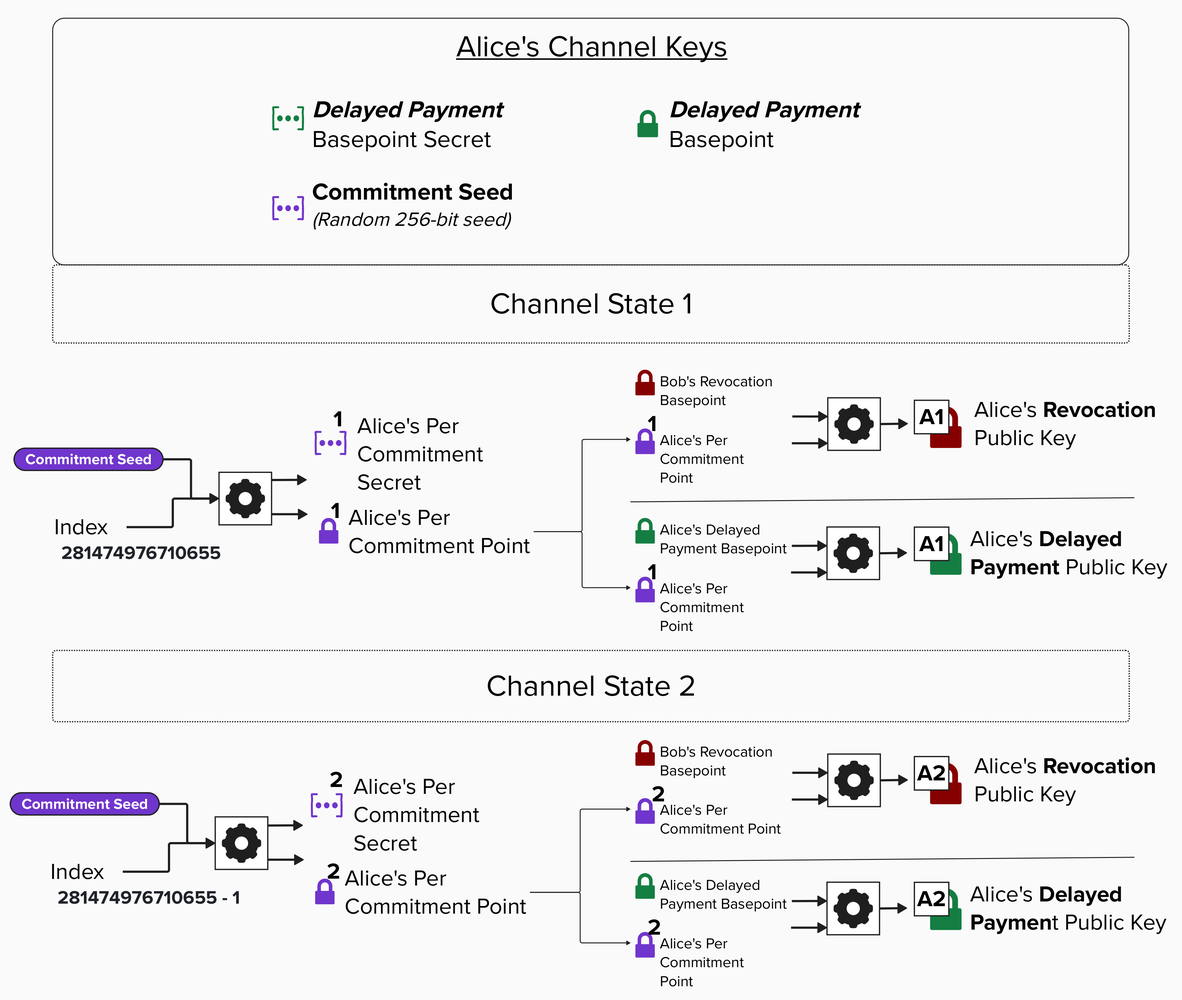
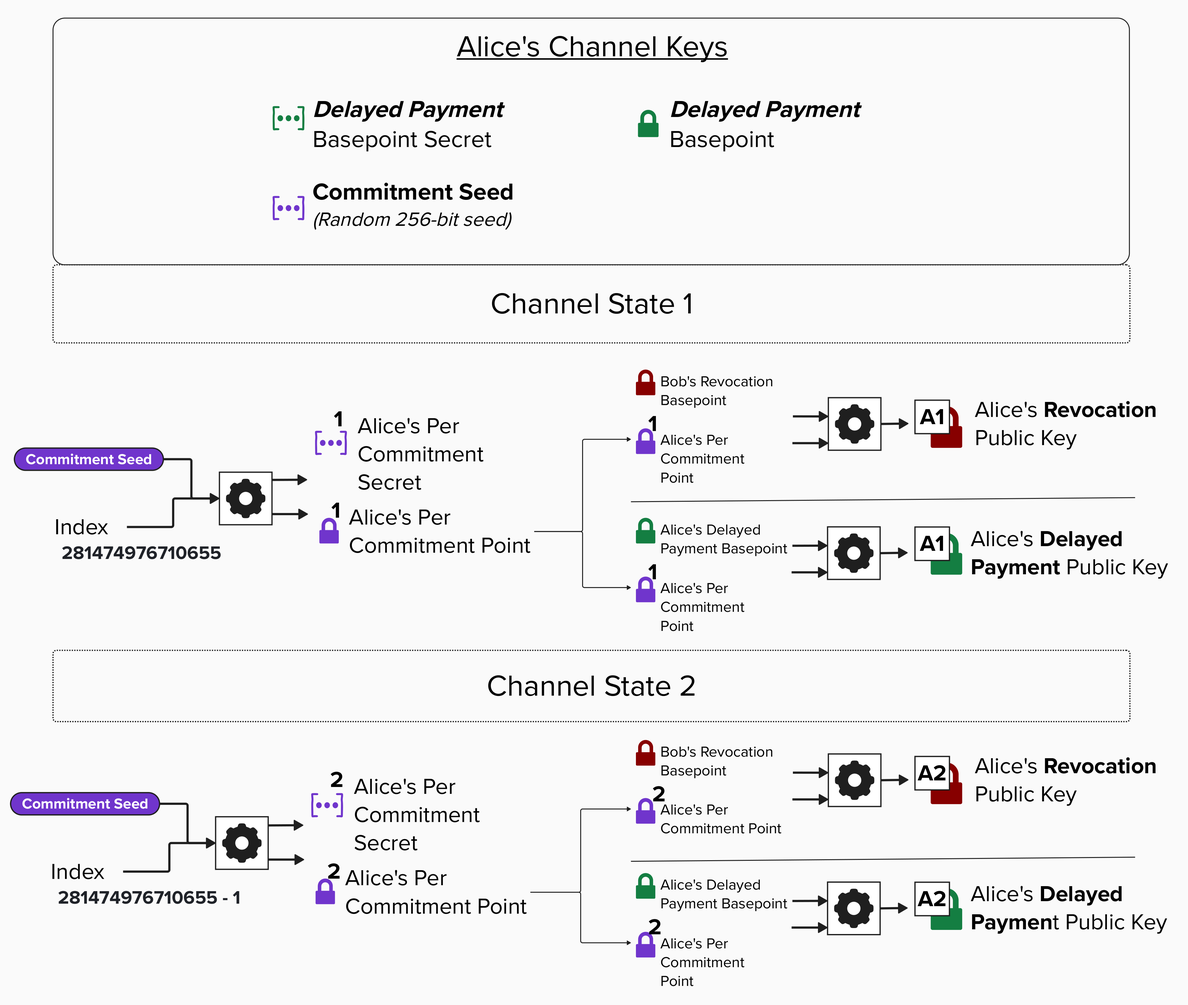
update per commitment point content

diff --git a/.tutorial/xx10-per-commitment-point.md b/.tutorial/xx10-per-commitment-point.md
@@ -4,9 +4,9 @@
 
 Alright, things are heating up fast. Hold on, we still have a lot to cover!
 
-In the last exercise, we learned that Alice and Bob will each generate a series of **Per-Commitiment Secrets** (Private Keys) and **Per-Commitment Points** (Public Keys) for each channel state. As we saw, these points are then used to create *unique* **Revocation Public Keys** for each channel state. Below is an image depicting this process from Alice's point of view. All she needs is a **commitment seed**, which she created when she opened the channel with Bob, and the **channel state index**. NOTE: in the below picture, the colors for Alice's keys have been changed back to match the colors in the original Channel Keys legend.
+In the last exercise, we learned that Alice and Bob will each generate a series of **Per-Commitment Secrets** (private keys) and **Per-Commitment Points** (public keys) for each channel state. As we saw, these points are then used to create *unique* **Revocation Public Keys** for each channel state. Below is an image depicting this process from Alice's point of view. All she needs is a **Commitment Seed**, which she created when she opened the channel with Bob, and the **channel state index**.
 
-SPOILER ALERT: The **Per-Commitment Points** is actually used for more than just the **Revocation Public Keys**, but more on that soon!  
+> **NOTE:** In the picture below, the colors for Alice's keys have been changed back to match the colors from when we first created all of our Channel Keys.
 
 <p align="center" style="width: 50%; max-width: 300px;">
   <img src="./tutorial_images/alice_per_commitment_points.png" alt="alice_per_commitment_points" width="50%" height="auto">
@@ -14,28 +14,32 @@ SPOILER ALERT: The **Per-Commitment Points** is actually used for more than just
 
 So, at this point, the outstanding question on *everyone's* mind is: **"How do we create the Per-Commitment Secret from the Commitment Seed?!"** In other words, what does the gear icon actually mean?
 
-We'll, let's dig into that now.
+Well, let's dig into that now.
 
-## Deriving A Per Commitment Secret
+## Deriving A Per-Commitment Secret
+
 BOLT 3, in the [Per-commitment Secret Requirements](https://github.com/lightning/bolts/blob/master/03-transactions.md#per-commitment-secret-requirements) section, provides a specific algorithm for generating the secret for any given channel state. The algorithm, listed below, has the following two parameters:
-- **seed**: This is the commitment seed for the channel.
-- **I**: This is the index. Per BOLT 3, the index starts at 281474976710655 for the first channel state, and it's decremented by 1 for each new state.
 
-#### todo!: explain how it works
+- **seed**: The Commitment Seed for the channel
+- **I**: The index. Per BOLT 3, the index starts at 281474976710655 for the first channel state, and is decremented by 1 for each new state
+
+#### todo- explain how it works!
 
 ```
 generate_from_seed(seed, I):
-P = seed
-for B in 47 down to 0:
-    if B set in I:
-        flip(B) in P
-        P = SHA256(P)
-return P
+    P = seed
+    for B in 47 down to 0:
+        if B set in I:
+            flip(B) in P
+            P = SHA256(P)
+    return P
 ```
 
 ### ⚡ Build Per-Commitment Secret
 
-Now that we've reviewed how the formula works, let's implement it ourselves! To do this, head back over to `src/exercises/keys/channel_keys_manager.rs`. Since this is where we implemented our `ChannelKeysManager`, which holds our channel keys (ex: commitment seed), it will be useful to implement the ability to generate a per-commitment secret here!
+Now that we've reviewed how the formula works, let's implement it ourselves! To do this, head back over to `src/exercises/keys/channel_keys_manager.rs`. Since this is where we implemented our `ChannelKeysManager`, which holds our channel keys (ex: **Commitment Seed**), it will be useful to implement the ability to generate a per-commitment secret here!
+
+To successfully complete this function, you'll need to produce a **Per-Commitment Secret** (returned as `[u8; 32]`) that for a given `commitment_number`. The result must be in accordance with the specifications outlined in BOLT 3.
 
 ```rust
 impl ChannelKeyManager {
@@ -54,10 +58,18 @@ pub fn build_commitment_secret(&self, commitment_number: u64) -> [u8; 32] {
 ```
 
 <details>
+  <summary>💡 Hint 💡</summary>
+
+#### todo - add high-level explanation "Hint" for how to complete
+
+</details>
+
+<details>
 <summary>Step 1: Initialize the Result with the Commitment Seed</summary>
 
-We start by creating a mutable variable that will hold our result. We initialize it with a copy of our commitment_seed - this seed is the starting point for generating all commitment secrets.
-The mut keyword makes this variable mutable, which we'll need because we're going to modify it through the hashing process.
+We'll start by creating a mutable variable that will hold our result. Let's initialize this variable as a copy of our `commitment_seed`, since the **Commitment Seed** is the starting point for generating all commitment secrets.
+
+In Rust, we use the `mut` keyword to specify that a variable is mutable.
 
 ```rust
 let mut res: [u8; 32] = self.commitment_seed.clone();
@@ -71,6 +83,7 @@ let mut res: [u8; 32] = self.commitment_seed.clone();
   <summary>Step 2: Loop Through 48 Bits and Check Each One</summary>
   
 The BOLT 3 algorithm examines 48 bits of the `commitment_number` (giving us 2^48 possible commitments). For each iteration, we calculate the bit position starting from bit 47 down to 0, then check if that bit is set in the commitment number using bitwise operations.
+
 The expression `commitment_number & (1 << bitpos)` checks if the bit at position `bitpos` is set to 1.
 
 ```rust
@@ -108,9 +121,9 @@ res
 
 ### ⚡ Build Per-Commitment Point
 
-Now that we have the ability to generate a Per-Commitment Secret, let's build the functionality to turn that into a Per-Commitment Point. To do this, we'll implement the function `derive_per_commitment_point`, on our `ChannelKeysManager`.
+Now that we have the ability to generate a **Per-Commitment Secret**, let's build the functionality to turn that into a **Per-Commitment Point**. To do this, we'll implement the `derive_per_commitment_point` function on our `ChannelKeyManager`.
 
-This function will take one input: the `commitment_number`. We'll pass the commitment number into the `build_commitment_secret` function we created in the last exercise, which will return a `SecretKey` type. Just was we've done in previous exercises, we'll convert the secret key to a public key and return it!
+This function takes one input: the `commitment_number`. We'll pass the commitment number into the `build_commitment_secret` function we created in the last exercise, which returns a 32-byte array. We'll then convert those bytes into a `SecretKey`. Finally, just as we've done in previous exercises, we'll convert the secret key to a public key and return it!
 
 ```rust
 impl ChannelKeyManager {
@@ -121,6 +134,24 @@ impl ChannelKeyManager {
     }
 }
 ```
+<details>
+  <summary>💡 Hint 💡</summary>
+
+This exercise brings together concepts we've covered earlier in this course.
+
+To successfully complete this function, you'll want to:
+
+1. Generate the per-commitment secret using `build_commitment_secret()`, which we implemented in the last exercise. It's available via `self.` because we implemented it on `ChannelKeyManager`, the same struct this function is on.
+
+2. Convert the 32-byte array to a `SecretKey`
+   - Use `SecretKey::from_slice(&secret).expect("Valid secret")`
+
+3. Derive the public key from the secret key
+   - Use `PublicKey::from_secret_key(&self.secp_ctx, &secret_key)`
+
+That's it!
+
+</details>
 
 <details>
   <summary>Step 1: Generate the Commitment Secret</summary>
@@ -149,7 +180,7 @@ let secret_key = SecretKey::from_slice(&secret).expect("Valid secret");
 <details>
   <summary>Step 3: Derive and Return the Public Key</summary>
     
-Finally, we derive the public key from our secret key using elliptic curve multiplication. This public key is our **Per-Commitment Point** - it's safe to share with our channel partner and will be used in key derivation for this specific commitment transaction.
+Finally, we derive the public key from our secret key using elliptic curve multiplication. This public key is our **Per-Commitment Point**!
 
 ```rust
 PublicKey::from_secret_key(&self.secp_ctx, &secret_key)
@@ -158,48 +189,56 @@ PublicKey::from_secret_key(&self.secp_ctx, &secret_key)
 
 ## Lightning Key Derivation
 
-At this point, we should have a good intuition for how we can derive new **Revocation Public Keys** for each commitment state. However, the fun doesn't stop just yet! In Lightning, we actually derive new pubic keys for most of the keys used in each commitment transaction.
+At this point, we should have a good intuition for how we can derive new **Revocation Public Keys** for each commitment state. However, the fun doesn't stop just yet! In Lightning, we actually derive new public keys for most of the keys used in each commitment transaction.
 
-For example, remember how we introduced a **Delayed Payment Public Key**, which is used in the delayed spending path (after the `to_self_delay` relative delay)? We'll, somewhat-similarly to the Revocation Public Key, this public key is also derived by combining it's basepoint (**Delayed Payment Basepoint**) with a given state's **Per-Commitment Point**.
+For example, remember how we introduced a **Delayed Payment Public Key**, which is used in the delayed spending path (after the `to_self_delay` relative timelock)? Well, somewhat similarly to the Revocation Public Key, this public key is also derived by combining its basepoint (**Delayed Payment Basepoint**) with a given state's **Per-Commitment Point**.
 
-Take a look at the visual below. In it, you can see that we use each state's **Per-Commitment Point** and combine it with a **Basepoint** such that it produces a new public key, which we can place in the actual locking script.
+Take a look at the visual below. You can see that we use each state's **Per-Commitment Point** and combine it with a **Basepoint** to produce a new public key, which we place in the actual locking script.
 
 <p align="center" style="width: 50%; max-width: 300px;">
   <img src="./tutorial_images/alice_delayed_payment_derivation.png" alt="alice_delayed_payment_derivation" width="100%" height="auto">
 </p>
 
-However, the crucial difference here is that the **Delayed Payment Public Key** is not derived the same way that the **Revocation Public Key** is. Instead, it uses the *local party's* **Basepoint**. For example, Alice will use her **Delayed Payment Basepoint** and combine it with *her* **Per-Commitment Point**. She'll use the below equation to calculate the **Delayed Payment Public Key** , which she will put in *her* delayed spending path. The reason she *won't* use Bob's Basepoint is because this path is only ever meant to be spent by Alice, so it's important that she is able to derive the private key to spend from this path at any time.
-
+However, the crucial difference here is that the **Delayed Payment Public Key** is ***not*** derived the same way as the **Revocation Public Key**. Instead, it uses the *local party's* **Delayed Payment Basepoint**. For example, Alice will use her **Delayed Payment Basepoint** and combine it with *her* **Per-Commitment Point**. She'll use the equation below to calculate the **Delayed Payment Public Key**, which she will put in *her* delayed spending path. She *won't* use Bob's Basepoint because this path is only ever meant to be spent by Alice, so it's important that she can derive the private key to spend from this path at any time.
 ```
 pubkey = basepoint + SHA256(per_commitment_point || basepoint) * G
 ```
 
 ## Delayed Public Keys in Locking Scripts
-Now that we know how we'll derive the **Delayed Payment Public Key** for a given transaction, let's review the overall flow one more time to make sure everything makes sense! Then, we'll code it up!
 
-In the below diagram, you'll see the overall **Channel Establishment** message flow that we reviewed earlier. In it, you can see all of the **Basepoints** that Alice and Bob send to each other in the `open_channel` and `accept_channel` messages. If you've been paying extra close attention, you may notice that we've now included the **First Per-Commitment Points** in the `open_channel` and `accept_channel` messages! Per the [BOLT 2 specification](https://github.com/lightning/bolts/blob/master/02-peer-protocol.md#the-open_channel-message) the **First Per-Commitment Points** are actually included in these messages, but we left them out earlier because we had not yet introduced them!
+Now that we know how to derive the **Delayed Payment Public Key** for a given transaction, let's review the overall flow one more time to make sure everything makes sense! Then, we'll code it up!
 
-At the bottom of the diagram, you can see how, for Alice's version of the commitment transaction, we calculate *her* **Delayed Payment Public Key** by plugging *her* **Delayed Payment Basepoint** and *her* **First Per-Commitment Point** into the formula provided in the BOLT 3 specification. On the other hand, we use *Bob's* **Delayed Payment Basepoint** and *Bob's* **First Per-Commitment Point** when calculating *his* **Delayed Payment Public Key**.
+The diagram below shows the **Channel Establishment** message flow that we reviewed earlier. You can see all of the **Basepoints** that Alice and Bob send to each other in the `open_channel` and `accept_channel` messages. If you've been paying close attention, you may notice that we've now included the **First Per-Commitment Points** in the `open_channel` and `accept_channel` messages! Per the [BOLT 2 specification](https://github.com/lightning/bolts/blob/master/02-peer-protocol.md#the-open_channel-message), the **First Per-Commitment Points** are actually included in these messages, but we left them out earlier because we hadn't yet introduced them!
+
+At the bottom of the diagram, you can see how we calculate Alice's **Delayed Payment Public Key** for her version of the commitment transaction by plugging *her* **Delayed Payment Basepoint** and *her* **First Per-Commitment Point** into the formula provided in the BOLT 3 specification. On the other hand, we use *Bob's* **Delayed Payment Basepoint** and *Bob's* **First Per-Commitment Point** when calculating *his* **Delayed Payment Public Key**.
 
 <p align="center" style="width: 50%; max-width: 300px;">
   <img src="./tutorial_images/delayed_payment_derivation.png" alt="delayed_payment_derivation" width="100%" height="auto">
 </p>
 
-#### Question: Why does Alice need Bob's Delayed Payment Basepoint? It looks like she only uses her Delayed Payment Basepoint to create the Delayed Payment Public Key that goes into her to_local witness script...
+#### Question: Why does Alice need Bob's Delayed Payment Basepoint? It looks like she only uses her Delayed Payment Basepoint to create the Delayed Payment Public Key that goes into her `to_local` witness script...
+
 <details>
   <summary>Answer</summary>
 
-Remember, each new transaction that Alice and Bob create is spending from the 2-of-2 funding output! Since Alice and Bob each have their own version of the commitment transactions, they will each require unique signatures from eachother to ensure their commitment transactions are valid.
+Remember, each new transaction that Alice and Bob create spends from the 2-of-2 funding output! Since Alice and Bob each have their own version of the commitment transaction, they each require a unique signature from the other to ensure their commitment transactions are valid.
 
-Therefore, Alice will need to re-create *Bob's* version of the commitment transaction locally so that she can generate a signature for it and send that signature to Bob! Bob will do the same.
+Therefore, Alice needs to recreate *Bob's* version of the commitment transaction locally so she can generate a signature for it and send that signature to Bob! Bob does the same for Alice.
 
-To ensure that Alice and Bob can create each other's commitment transaction's locally, they will share their Basepoints at when opening their channel.
+To ensure that Alice and Bob can create each other's commitment transactions locally, they share their Basepoints when opening their channel.
 
 </details>
 
 ### ⚡ Derive Public Keys
 
-Alright, let's get our hands dirty by implementing `derive_public_key`, a function that takes a **Basepoint** and **Per Commitment Point** and returns a public key for a specific commitment transaction. In case you're wondering, the function definition doesn't specify which basepoint for a few reasons. First, we can use this function to derive a **Delayed Payment Public Key** for our counterparty, which uses *their** **Delayed Payment Basepoint** and their **Per-Commitment Point**. Additionally, as we'll see later, there are other public keys that we'll derive using different **Basepoints**!
+Alright, let's get our hands dirty by implementing `derive_public_key`, a function that takes a **Basepoint** and **Per-Commitment Point** and returns a public key for a specific commitment transaction.
+
+In case you're wondering, the function definition doesn't specify which basepoint for a few reasons. First, we can use this function to derive a **Delayed Payment Public Key** for our counterparty, which uses *their* **Delayed Payment Basepoint** and their **Per-Commitment Point**. Additionally, as we'll see later, there are other public keys that we'll derive using different **Basepoints**!
+
+To successfuly complete this exericse, you'll need to implement the formula as defined in [BOLT 3](https://github.com/lightning/bolts/blob/master/03-transactions.md#localpubkey-local_htlcpubkey-remote_htlcpubkey-local_delayedpubkey-and-remote_delayedpubkey-derivation):
+```
+pubkey = basepoint + SHA256(per_commitment_point || basepoint) * G
+```
 
 ```rust
 pub fn derive_public_key(
@@ -224,8 +263,27 @@ pub fn derive_public_key(
 ```
 
 <details>
+  <summary>💡 Hint 💡</summary>
+
+This exercise is pretty similar to deriving the Revocation Keys. Feel free to look back at that exercise if you get stuck!
+
+Here's the general approach:
+
+1. Hash the **Per-Commitment Point** and **Basepoint** together (note the order!).
+   - Just like you did in the revocation exercise, use `Sha256::engine()`, `.input()`, and `Sha256::from_engine()`
+
+2. Convert the hash to a public key.
+   - Treat the hash as a secret key and derive a public key from it
+
+3. Add the basepoint to this hash-derived public key.
+   - Use `.combine()` to add the two points together
+
+</details>
+
+<details>
   <summary>Step 1: Create a SHA256 Hashing Engine</summary>
-We start by creating a SHA256 hasher that we'll use to hash our key material together. The `engine()` method gives us a hasher we can feed data into incrementally.
+
+Just like we did previously, let's start by creating a SHA256 hash engine. 
 
 ```rust
 let mut engine = Sha256::engine();
@@ -235,9 +293,9 @@ let mut engine = Sha256::engine();
 <details>
 <summary>Step 2: Hash the Per-Commitment Point and Basepoint</summary>
 
-Next, we hash the concatenation of our per-commitment point and basepoint. The order matters here - per-commitment point first, then basepoint, as specified in BOLT 3!
+Next, let's hash the concatenation of our **Per-Commitment Point** and **Basepoint**. Remember, order matters!
 
-We serialize each public key to bytes using `.serialize()` which gives us the compressed 33-byte representation, then feed those bytes into our hasher with `.input()`.
+Also, make to sure serialize each public key using `.serialize()`, which gives us the compressed 33-byte representation, then feed those bytes into our hash engine with `.input()`.
 
 ```rust
 engine.input(&per_commitment_point.serialize());
@@ -248,9 +306,7 @@ engine.input(&basepoint.serialize());
 <details>
 <summary>Step 3: Finalize the Hash and Convert to Public Key</summary>
 
-Now we finalize the hash and convert the resulting 32 bytes into a public key. This might seem odd - we're treating a hash output as a secret key and deriving its public key - but this is exactly what the BOLT 3 specification calls for!
-  
-The hash output is guaranteed to be a valid secret key (the only way it wouldn't be is if SHA-256 itself is broken). We multiply this secret by the generator point G to get our "tweak" public key.
+Now, let's finalize the hash and convert the resulting 32 bytes into a public key. To be clear, we're treating a hash output as a secret key, which we then use to derive its public key.
 
 ```rust
 let res = Sha256::from_engine(engine);
@@ -265,9 +321,7 @@ let hashkey = PublicKey::from_secret_key(
 <details>
   <summary>Step 4: Combine the Basepoint with the Hash Key</summary>
   
-Finally, we add our basepoint to the hash key using elliptic curve point addition. The `.combine()` method performs this addition on the secp256k1 curve.
-
-This operation can only fail if the tweak is the exact inverse of the basepoint (which would result in the point at infinity). But since our tweak includes a hash of the basepoint itself, this is cryptographically impossible!
+Finally, let's add our basepoint to the hash key using elliptic curve point addition. The `.combine()` method performs this addition on the secp256k1 curve.
 
 ```rust
 basepoint.combine(&hashkey).expect("Addition only fails if the tweak is the inverse of the key. This is not possible when the tweak contains the hash of the key.")
@@ -275,60 +329,84 @@ basepoint.combine(&hashkey).expect("Addition only fails if the tweak is the inve
 </details>
 
 ## Deriving Private Keys
-Okay, so we have our public keys ready to go! But, how do we generate the private keys so that we can spend from any given commitment state? For example, the diagram below depicts a situation where Alice needs to claim her funds from the first commitment state, which we've been calling the "Refund" transaction. To do this, she needs to spend from the **Delayed Payment Public Key**, which is unique to this commitment state.
 
-To be clear, we can imagine that Alice is locking her funds to another public key for which she knows the private key. It's shown in a black color below to indicate that it's not a public key related to our Lightning wallet. It can be any other public key that Alice controls.
+Okay, so we have our public keys ready to go! But how do we generate the private keys so that we can spend from any given commitment state? For example, the diagram below depicts a situation where Alice needs to claim her funds from the first commitment state, which we've been calling the "Refund" transaction. To do this, she needs to spend from the **Delayed Payment Public Key**, which is unique to this commitment state.
 
 <p align="center" style="width: 50%; max-width: 300px;">
   <img src="./tutorial_images/alice_refund_claim.png" alt="alice_refund_claim" width="100%" height="auto">
 </p>
 
-If you recall from earlier when we created our **Delayed Payment Public Key**, we combined the **Delayed Payment Basepoint** with the **Per-Commitment Point**. Therefore, to generate the private key to spend from the **Delayed Payment Public Key**, we'll have to combine the **Delayed Payment Secret** with the same tweak we added to our **Delayed Payment Secret** to create the **Delayed Payment Public Key**. BOLT 3 provides us with the equation to do just this! You can see it below.
-
+We created the **Delayed Payment Public Key** by combining the **Delayed Payment Basepoint** with a **Per-Commitment Point**. Therefore, to generate the corresponding private key, we need to apply the same tweak to the **Delayed Payment Basepoint Secret**. BOLT 3 provides us with the equation to do just this:
 ```
 privkey = basepoint_secret + SHA256(per_commitment_point || basepoint)
 ```
 
-#### Question: Take a look at the newly added sequence field in the "input" section of Alice's refund claim transaction. What is to_self_delay here?
+#### Question: Take a look at the newly added sequence field in the "input" section of Alice's refund claim transaction. What is `to_self_delay` here?
+
 <details>
   <summary>Answer</summary>
 
-Recall how we added a delay so that Alice had to wait `to_self_delay` (ex: 2016 blocks or ~2 weeks) before she could claim her funds from this output, if it's mined? This was to give Bob time to claim these funds first, if Alice was cheating by broadcasting this transaction *after* they had already agreed to move to a new channel state.
+Recall how we added a delay so that Alice had to wait `to_self_delay` (e.g., 2016 blocks or ~2 weeks) before she could claim her funds from this output, if it's mined? This was to give Bob time to claim these funds first if Alice was cheating by broadcasting this transaction *after* they had already agreed to move to a new channel state.
 
-We'll, in this example, we're assuming that Alice is playing nice and is fairly claiming these funds back. To do this, she will have to set the `sequence` field in the input, which specifies the output she's spending, to the `to_self_delay` value that was embedded in the script. If you're intersted in reading the details, you can read the OP_CHECKSEQUENCEVERIFY BIP [here](https://github.com/bitcoin/bips/blob/master/bip-0112.mediawiki). 
+Well, in this example, we're assuming that Alice is playing nice and is fairly claiming these funds back. To do this, she will have to set the `sequence` field in the input, which specifies the output she's spending, to the `to_self_delay` value that was embedded in the script. If you're interested in reading the details, you can read the OP_CHECKSEQUENCEVERIFY BIP [here](https://github.com/bitcoin/bips/blob/master/bip-0112.mediawiki).
 
-If you're busy (or are intimidated by the BIP - they can be scary), here is the TLDR: The `sequence` field specifies a relative timelock on the input - meaning that a transaction cannot be mined until that amount of blocks (or time) has passed **since the input was mined**. OP_CHECKSEQUENCEVERIFY, when being evaluated on the stack, will check if the provided delay (`to_self_delay`, in our case) is greater than or equal to the value in the `sequence` field. By doing this, we can restrict the delayed spending path such that Alice cannot spend from that path until the relative timelock has experied. Cool, eh?
+If you're busy (or intimidated by the BIP - they can be scary), here is the TLDR: The `sequence` field specifies a relative timelock on the input, meaning that a transaction cannot be mined until that number of blocks (or amount of time) has passed **since the output being spent was confirmed**. `OP_CHECKSEQUENCEVERIFY`, when evaluated on the stack, checks if the provided delay (`to_self_delay`, in our case) is less than or equal to the value in the `sequence` field. By doing this, we can restrict the delayed spending path such that Alice cannot spend from it until the relative timelock has expired. Neat, eh?
 
 </details>
 
 ### ⚡ Derive Private Keys
 
-For this exercise, we'll implement `derive_private_key`, a function that takes a `base_secret` (like our `delayed_payment_basepoint_secret`), a `per_commitment_point`, and returns the derived private key we can use to sign for that specific commitment.
+For this exercise, we'll implement `derive_private_key`, a function that takes a `basepoint_secret` (like our `delayed_payment_basepoint_secret`), a `per_commitment_point`, and returns the derived private key we can use to sign for that specific commitment.
+
+To successfuly complete this exericse, you'll need to implement the formula as defined in [BOLT 3](https://github.com/lightning/bolts/blob/master/03-transactions.md#localpubkey-local_htlcpubkey-remote_htlcpubkey-local_delayedpubkey-and-remote_delayedpubkey-derivation):
+```
+pubkey = basepoint + SHA256(per_commitment_point || basepoint) * G
+```
 
 ```rust
 pub fn derive_private_key(
-    base_secret: &SecretKey,
+    basepoint_secret: &SecretKey,
     per_commitment_point: &PublicKey,
     secp_ctx: &Secp256k1<All>,
 ) -> SecretKey {
-    // privkey = base_secret + SHA256(per_commitment_point || basepoint)
-    let basepoint = PublicKey::from_secret_key(secp_ctx, base_secret);
+    // privkey = basepoint_secret + SHA256(per_commitment_point || basepoint)
+    let basepoint = PublicKey::from_secret_key(secp_ctx, basepoint_secret);
     let mut engine = Sha256::engine();
     engine.input(&per_commitment_point.serialize());
     engine.input(&basepoint.serialize());
     let res = Sha256::from_engine(engine).to_byte_array();
-    base_secret.clone().add_tweak(&Scalar::from_be_bytes(res).unwrap())
+    basepoint_secret.clone().add_tweak(&Scalar::from_be_bytes(res).unwrap())
         .expect("Addition only fails if the tweak is the inverse of the key. This is not possible when the tweak contains the hash of the key.")
 }
 ```
+<details>
+  <summary>💡 Hint 💡</summary>
+
+This is very similar to deriving the public key, but we're working with secrets (scalars) instead of public keys (points). The key difference is that we use **addition** instead of point combination.
+
+Below are some tips to help you complete this exercise successfully:
+
+1. Derive the basepoint (public key) from the basepoint secret.
+   - Use `PublicKey::from_secret_key(secp_ctx, basepoint_secret)`
+
+2. Hash the **Per-Commitment Point** and **Basepoint** together.
+   - Use `Sha256::engine()`, `.input()`, and `Sha256::from_engine()`
+
+3. Convert the hash to a `Scalar`.
+   - Use `Scalar::from_be_bytes(hash)`
+
+4. Add the scalar to the basepoint secret.
+   - Use `.add_tweak(&scalar)` on the secret key
+
+</details>
 
 <details>
   <summary>Step 1: Derive the Basepoint Public Key</summary>
 
-First, we need to derive the public key (basepoint) from our base secret. We need this because the hash in our derivation formula includes the basepoint, not the secret!
+First, we need to derive the public key (basepoint) from our basepoint secret. We need this because the hash in our derivation formula includes the basepoint, not the secret!
 
 ```rust
-let basepoint = PublicKey::from_secret_key(secp_ctx, base_secret);
+let basepoint = PublicKey::from_secret_key(secp_ctx, basepoint_secret);
 ```
 </details>
 
@@ -336,7 +414,7 @@ let basepoint = PublicKey::from_secret_key(secp_ctx, base_secret);
 <details>
   <summary>Step 2: Hash the Per-Commitment Point and Basepoint</summary>
   
-Just like we did for public key derivation, we create a SHA256 hasher and feed it the per-commitment point and basepoint in that exact order. This hash will become our "tweak" value
+Just like we did for public key derivation, we create a SHA256 hash engine and input the **Per-Commitment Point** and **Basepoint** - in that order.
 
 ```rust
 let mut engine = Sha256::engine();
@@ -347,14 +425,14 @@ let res = Sha256::from_engine(engine).to_byte_array();
 </details>
 
 <details>
-  <summary>Step 3: Add the Tweak to the Base Secret</summary>
+  <summary>Step 3: Add the Tweak to the Basepoint Secret</summary>
 
-Now for the key operation! We add our hash (the tweak) to the base secret using scalar addition on the secp256k1 curve. The `.add_tweak()` method handles this securely.
+Next, let's add the hash (tweak) to the **Basepoint Secret** using scalar addition on the secp256k1 curve. The `.add_tweak()` method handles this securely.
 
-We need to convert our hash bytes into a `Scalar` (a number modulo the curve order) using `Scalar::from_be_bytes()`. The operation can only fail if the tweak happens to be the exact inverse of our key, but since the tweak includes a hash of the public key derived from our secret, this is cryptographically impossible.
+To do this, We'll need to convert our hash bytes into a `Scalar` using `Scalar::from_be_bytes()`.
 
 ```rust
-base_secret.clone().add_tweak(&Scalar::from_be_bytes(res).unwrap())
+basepoint_secret.clone().add_tweak(&Scalar::from_be_bytes(res).unwrap())
 .expect("Addition only fails if the tweak is the inverse of the key. This is not possible when the tweak contains the hash of the key.")
 ```
 </details>
